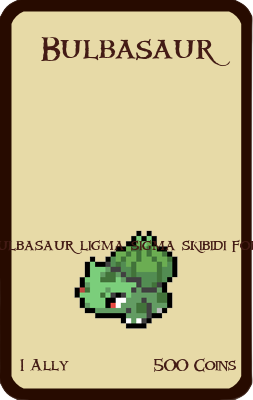
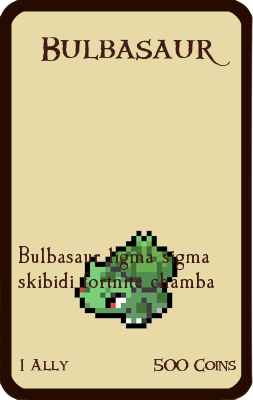
Fixed sizes and multiple line text

Changed region(s): [[0.0, 0.6, 1.0, 0.72]]

diff --git a/text.py b/text.py
@@ -12,7 +12,6 @@ class Text():
         self._position_percent = position_percent
 
     def add_text_to_image(self, draw_ctx, image_size: tuple):
-        # TODO: add text wrap
         # TODO: add this module to images as well
 
         try:
@@ -20,9 +19,9 @@ class Text():
         except IOError:
             text_font = ImageFont.load_default()
 
-        # lines = textwrap.wrap(self._text, width=20)
-        # print(lines)
-        # for line in lines:
-        text_width = draw_ctx.textlength(self._text, font=text_font)
-        text_position = ((image_size[0] - text_width) * self._position_percent[0], image_size[1] * self._position_percent[1])
-        draw_ctx.text(text_position, self._text, fill=self._color, font=text_font)
+        lines = textwrap.wrap(self._text, width=25)
+        text_width = draw_ctx.textlength(lines[0], font=text_font)
+        fixed_position = ((image_size[0] - text_width) * self._position_percent[0], image_size[1] * self._position_percent[1])
+        for line in lines:
+            draw_ctx.text(fixed_position, line, fill=self._color, font=text_font)
+            fixed_position = (fixed_position[0], fixed_position[1] + self._size)

diff --git a/card_generator.py b/card_generator.py
@@ -12,12 +12,12 @@ def main():
         position_percent=(0.5, 0.1)
     )
 
-    title_text2 = Text(
+    body_text = Text(
         text="Bulbasaur ligma sigma skibidi fortnite chamba",
-        font="Quasimodo",
+        font="CaslonAntique",
         color=TITLE_COLOR,
-        size=15,
-        position_percent=(0.1, 0.6)
+        size=25,
+        position_percent=(0.3, 0.6)
     )
 
     ally_text = Text(
@@ -39,7 +39,7 @@ def main():
     munchkin_card = Card(
         card_background="munchkin",
         card_title="Bulbasaur",
-        texts=[title_text, title_text2, ally_text, coin_text]
+        texts=[title_text, body_text, ally_text, coin_text]
     )
 
     munchkin_card.create_card()
